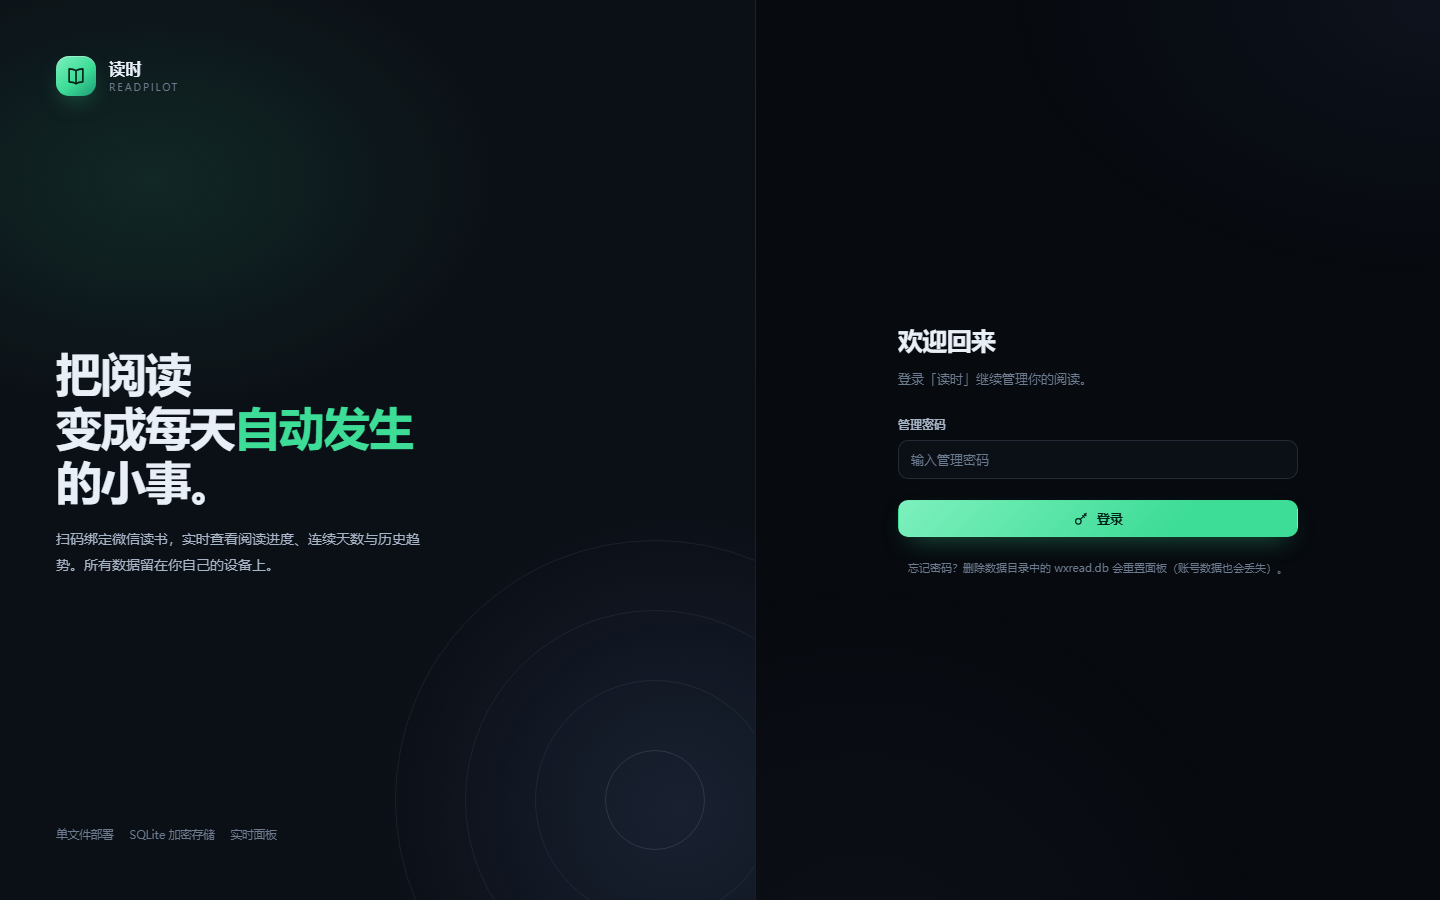
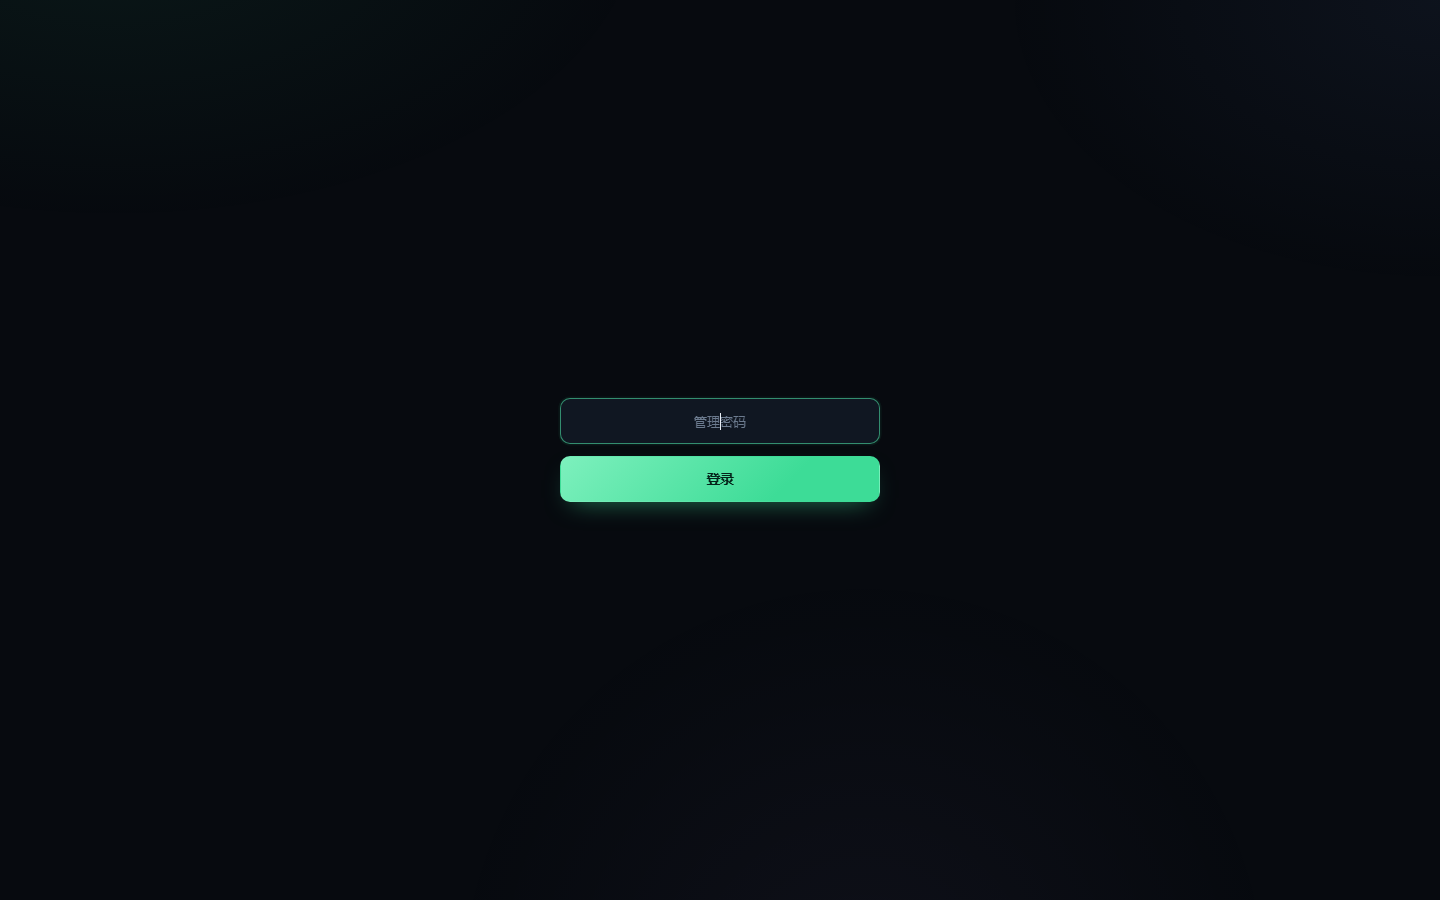
style: 登录页改为极简居中输入框

diff --git a/internal/webui/assets/js/app.js b/internal/webui/assets/js/app.js
@@ -196,53 +196,20 @@ function onGlobalEvent(ev) {
   }
 }
 
-function authHTML(mode, info) {
+function authHTML(mode) {
   const setup = mode === 'setup';
-  const site = escapeHtml(info.site_name || '读时');
-  return `<div class="auth">
-    <div class="auth-art">
-      <div class="auth-brand">
-        <div class="brand-mark">${icon('bookOpen')}</div>
-        <div class="brand-text">
-          <div class="brand-name">${site}</div>
-          <div class="brand-sub">ReadPilot</div>
-        </div>
-      </div>
-      <div class="auth-quote">
-        <h1>把阅读<br>变成每天<em>自动发生</em><br>的小事。</h1>
-        <p>扫码绑定微信读书，实时查看阅读进度、连续天数与历史趋势。所有数据留在你自己的设备上。</p>
-      </div>
-      <div class="auth-foot">
-        <span>单文件部署</span><span>SQLite 加密存储</span><span>实时面板</span>
-      </div>
-      <div class="rings"><span></span><span></span><span></span><span></span></div>
-    </div>
-    <div class="auth-panel">
-      <form class="auth-card" id="auth-form" autocomplete="off">
-        <h2>${setup ? '初始化面板' : '欢迎回来'}</h2>
-        <p class="sub">${setup ? '设置一个管理密码，用于保护本地面板。' : `登录「${site}」继续管理你的阅读。`}</p>
-        <div class="auth-error" id="auth-error">${icon('alert')}<span></span></div>
-        ${setup ? `<div class="field">
-          <label class="label">站点名称 <span class="opt">可选</span></label>
-          <input class="input" id="site-name" placeholder="读时" maxlength="40">
-        </div>` : ''}
-        <div class="field">
-          <label class="label">管理密码</label>
-          <input class="input" id="password" type="password" placeholder="${setup ? '至少 6 位' : '输入管理密码'}"
-            autocomplete="${setup ? 'new-password' : 'current-password'}" autofocus>
-        </div>
-        ${setup ? `<div class="field">
-          <label class="label">确认密码</label>
-          <input class="input" id="password2" type="password" placeholder="再次输入" autocomplete="new-password">
-        </div>` : ''}
-        <button class="btn btn-primary" id="auth-submit" type="submit" style="width:100%;margin-top:6px">
-          ${icon(setup ? 'shield' : 'key')}${setup ? '创建并进入' : '登录'}
-        </button>
-        <p class="auth-note">
-          ${setup ? '此密码仅用于保护本面板，不是微信读书密码。' : '忘记密码？删除数据目录中的 wxread.db 会重置面板（账号数据也会丢失）。'}
-        </p>
-      </form>
-    </div>
+  return `<div class="auth-minimal">
+    <form class="auth-minimal-form" id="auth-form" autocomplete="off">
+      <div class="auth-error" id="auth-error">${icon('alert')}<span></span></div>
+      ${setup ? `<input class="input auth-input" id="site-name" placeholder="站点名称（可选）" maxlength="40">` : ''}
+      <input class="input auth-input" id="password" type="password"
+        placeholder="${setup ? '设置管理密码（至少 6 位）' : '管理密码'}"
+        autocomplete="${setup ? 'new-password' : 'current-password'}" autofocus>
+      ${setup ? `<input class="input auth-input" id="password2" type="password" placeholder="确认密码" autocomplete="new-password">` : ''}
+      <button class="btn btn-primary auth-submit" id="auth-submit" type="submit">
+        ${setup ? '创建并进入' : '登录'}
+      </button>
+    </form>
   </div>`;
 }
 
@@ -250,7 +217,7 @@ function showAuth(mode, info = {}) {
   authActive = true;
   if (es) { es.close(); es = null; }
   document.title = `${info.site_name || '读时'} · ReadPilot`;
-  $('#app').innerHTML = authHTML(mode, info);
+  $('#app').innerHTML = authHTML(mode);
 
   const form = $('#auth-form');
   const errBox = $('#auth-error');

diff --git a/internal/webui/assets/app.css b/internal/webui/assets/app.css
@@ -789,54 +789,42 @@ h1, h2, h3, h4, p { margin: 0; }
 .page-loading { display: grid; gap: 14px; }
 .page-loading .skeleton { height: 90px; border-radius: var(--radius); }
 
-/* ---------- auth ---------- */
+/* ---------- auth (minimal) ---------- */
 
-.auth {
+.auth-minimal {
   min-height: 100vh;
   display: grid;
-  grid-template-columns: 1.05fr .95fr;
+  place-items: center;
+  padding: 24px;
   position: relative;
   z-index: 1;
 }
-.auth-art {
-  position: relative;
-  overflow: hidden;
-  padding: 56px;
+.auth-minimal-form {
+  width: min(320px, 100%);
   display: flex;
   flex-direction: column;
-  justify-content: space-between;
-  border-right: 1px solid var(--line);
-  background:
-    radial-gradient(600px 400px at 20% 20%, var(--accent-soft), transparent 60%),
-    radial-gradient(500px 500px at 90% 90%, var(--blue-soft), transparent 60%),
-    var(--bg-2);
+  gap: 12px;
 }
-.auth-art .rings { position: absolute; right: -160px; bottom: -160px; width: 520px; height: 520px; pointer-events: none; }
-.auth-art .rings span { position: absolute; inset: 0; border-radius: 50%; border: 1px solid var(--line); }
-.auth-art .rings span:nth-child(2) { inset: 70px; }
-.auth-art .rings span:nth-child(3) { inset: 140px; }
-.auth-art .rings span:nth-child(4) { inset: 210px; border-color: var(--line-strong); }
-.auth-brand { display: flex; align-items: center; gap: 13px; position: relative; }
-.auth-quote { position: relative; max-width: 460px; }
-.auth-quote h1 { font-size: clamp(30px, 3.4vw, 46px); line-height: 1.18; font-weight: 780; letter-spacing: -.03em; }
-.auth-quote h1 em { font-style: normal; color: var(--accent); }
-.auth-quote p { margin-top: 18px; color: var(--text-2); font-size: 14px; line-height: 1.8; max-width: 380px; }
-.auth-foot { position: relative; font-size: 11.5px; color: var(--muted); display: flex; gap: 16px; flex-wrap: wrap; }
-.auth-panel { display: flex; align-items: center; justify-content: center; padding: 40px 24px; }
-.auth-card { width: min(400px, 100%); }
-.auth-card h2 { font-size: 25px; font-weight: 760; letter-spacing: -.025em; }
-.auth-card .sub { color: var(--muted); font-size: 13px; margin: 8px 0 26px; }
+.auth-input {
+  height: 46px;
+  padding: 0 14px;
+  background: var(--surface);
+  text-align: center;
+}
+.auth-submit {
+  height: 46px;
+  width: 100%;
+  font-size: 13.5px;
+}
 .auth-error {
   padding: 10px 12px;
   border-radius: 10px;
   background: var(--red-soft);
   color: var(--red);
   font-size: 12px;
-  margin-bottom: 14px;
   display: none;
 }
 .auth-error.show { display: flex; gap: 8px; align-items: center; animation: shake .3s; }
-.auth-note { margin-top: 22px; font-size: 11px; color: var(--muted); text-align: center; line-height: 1.7; }
 
 /* ---------- menus ---------- */
 
@@ -1054,13 +1042,6 @@ h1, h2, h3, h4, p { margin: 0; }
   .hero-grid { grid-template-columns: 1fr; gap: 18px; }
   .ring-wrap { width: 108px; height: 108px; margin: 0 auto; }
   .hero-numbers { gap: 20px; }
-  .auth { grid-template-columns: 1fr; }
-  .auth-art { padding: 34px 26px; min-height: 260px; border-right: none; border-bottom: 1px solid var(--line); }
-  .auth-art .rings { display: none; }
-  .auth-quote h1 { font-size: 30px; }
-  .auth-quote p { margin-top: 10px; font-size: 13px; }
-  .auth-foot { display: none; }
-  .auth-panel { padding: 34px 22px 60px; }
   .grid-2 { grid-template-columns: 1fr; }
   .desktop-only { display: none; }
   .mobile-only { display: initial; }
